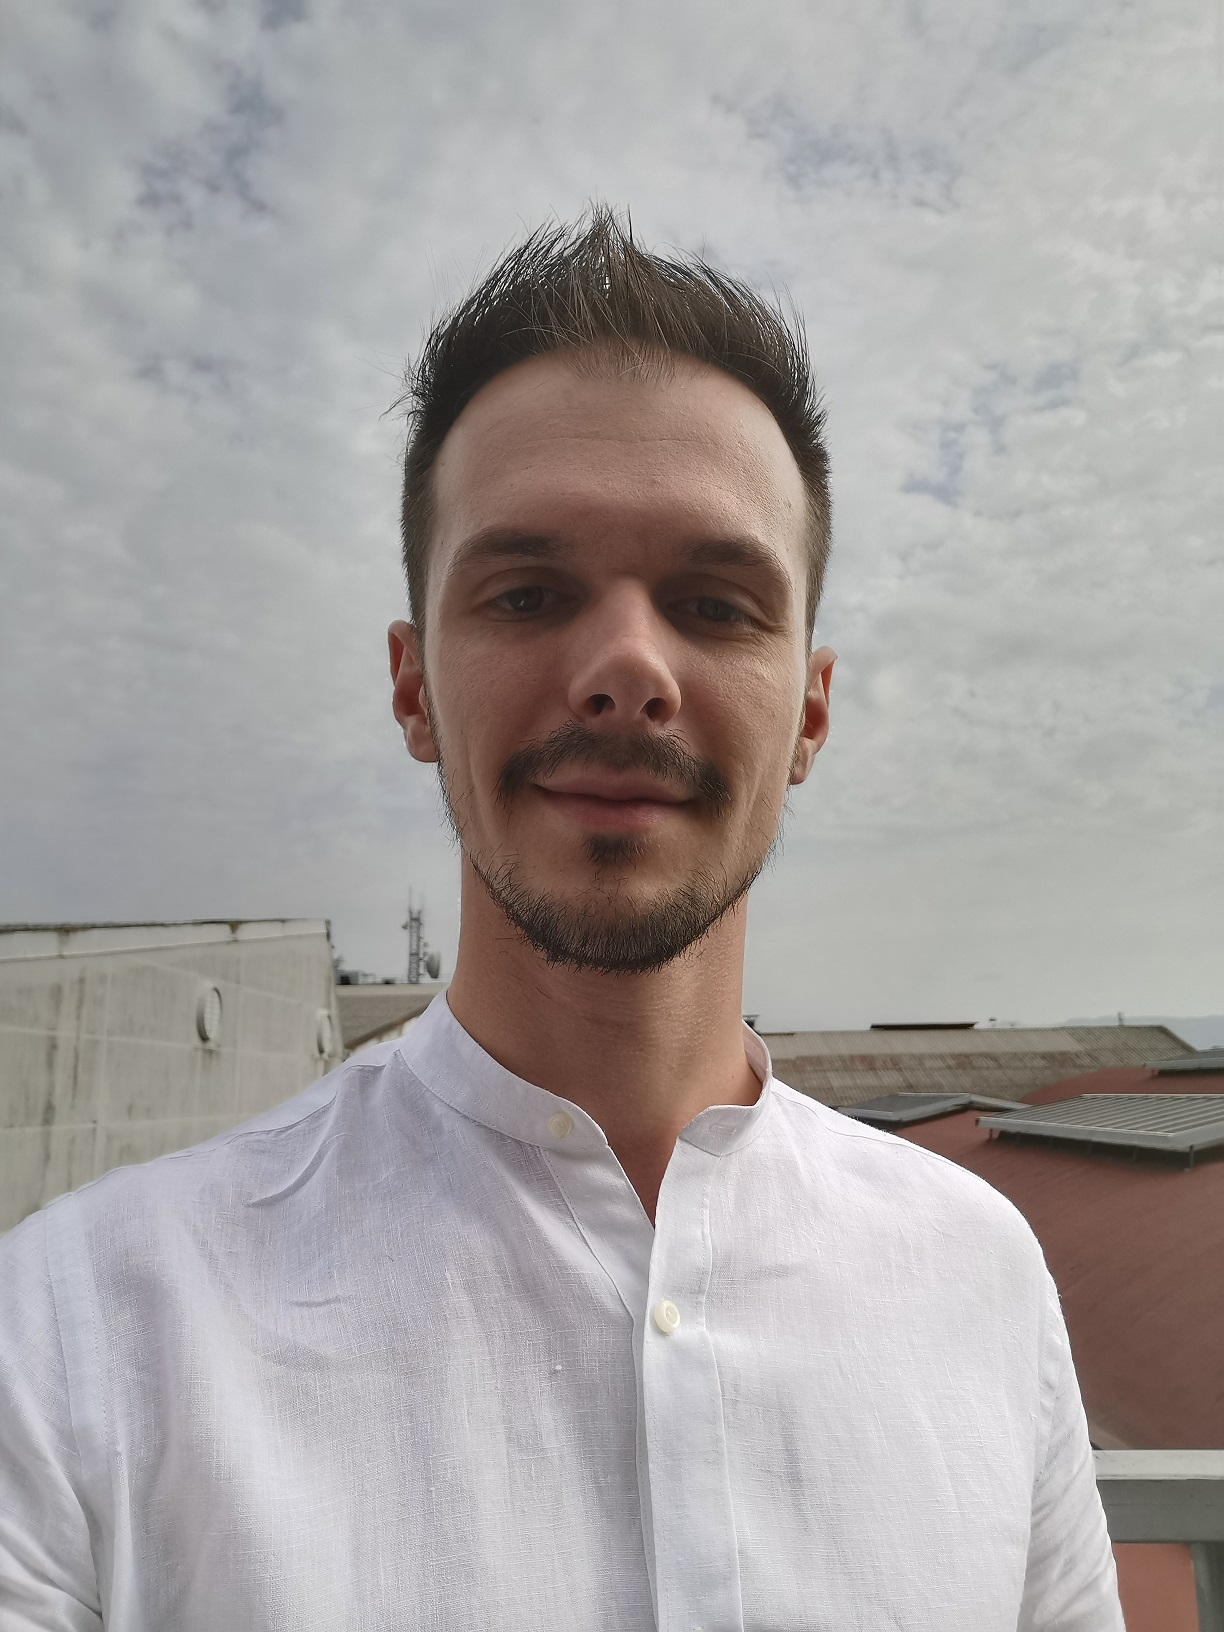
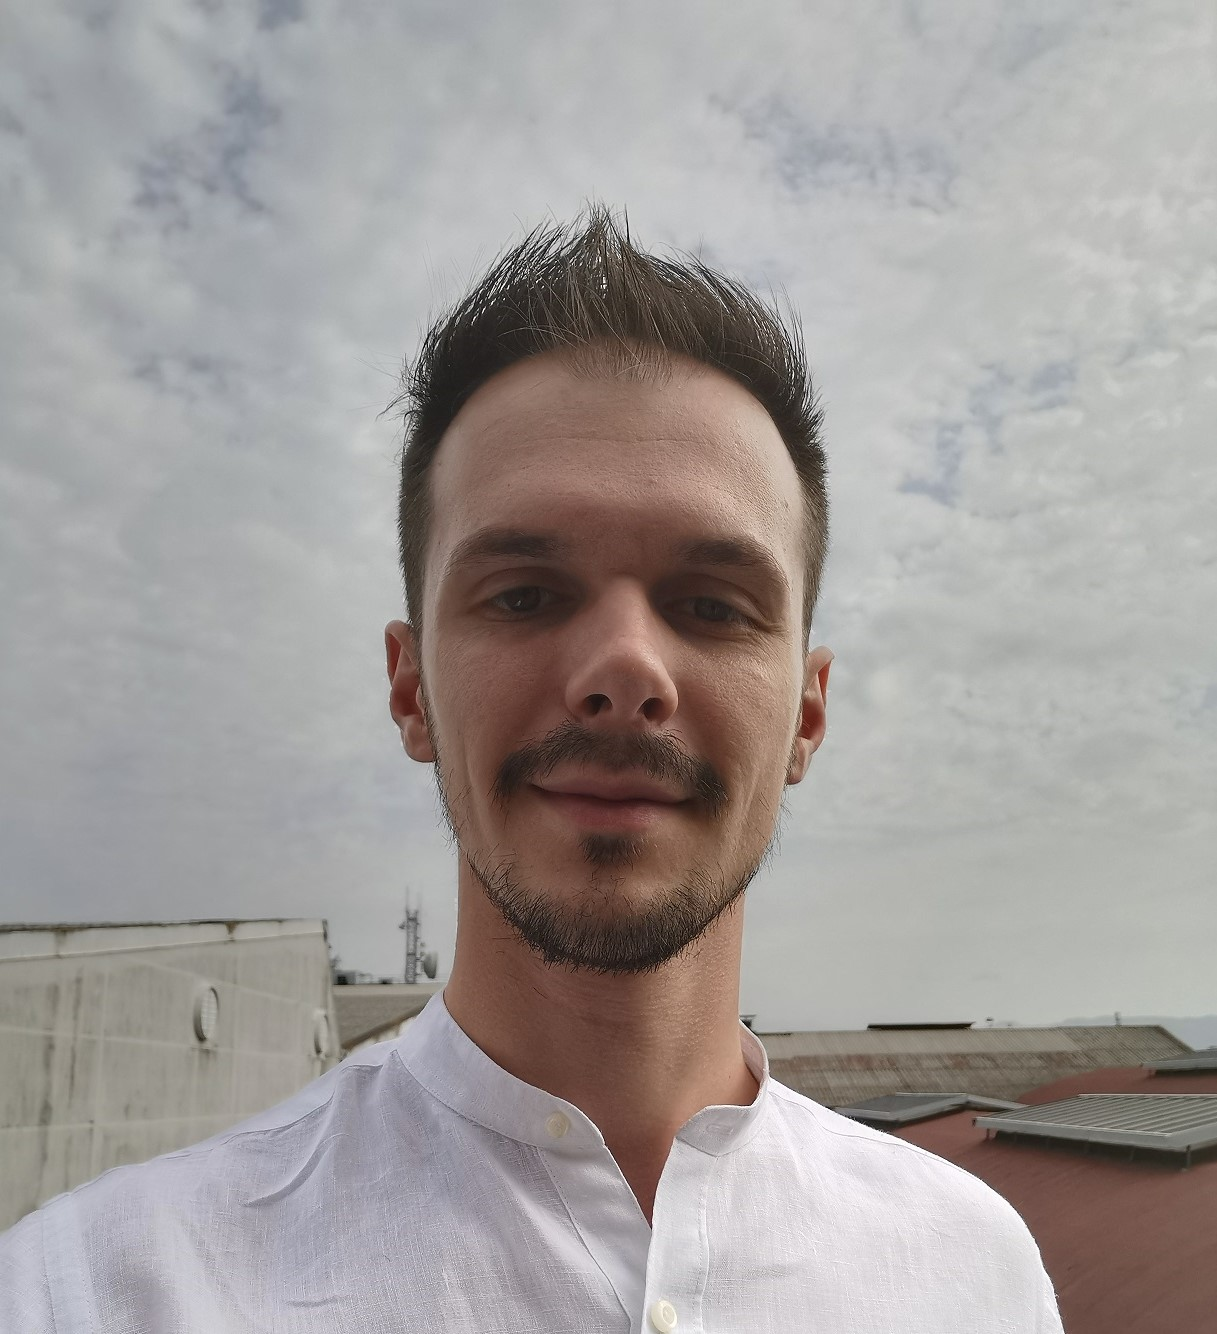
Added photo to site

diff --git a/_layouts/default.html b/_layouts/default.html
@@ -25,17 +25,17 @@
         <h1><a href="{{ "/" | absolute_url }}">{{ site.title }}</a></h1>
         
         {% if site.logo %}
-          <img src="{{site.logo | relative_url}}" alt="Logo" />
+			<img src="{{site.logo | relative_url}}" alt="Logo" id="contactPhoto"/>
         {% endif %}
 
-        <ul class="contactList">
+        <ul class="headerList">
 			<li><i class="fas fa-envelope"></i><a href="mailto:{{ site.mail-work }}">E-mail</a></li>
 			<li><i class="fab fa-linkedin"/></i><a href="{{ site.linkedin }}">Linkedin</a></li>
 			<li><i class="fab fa-researchgate"></i><a href="{{ site.research-gate }}">Research Gate</a></li>
 			<li><i class="fab fa-google"></i><a href="{{ site.scholar }}">Google Scholar</a></li>
 		</ul>
 		
-		<ul class="contactList">
+		<ul class="headerList">
 			<li><a href="#cv">Short CV</a></li>
 			<li><a href="#publications">Pubblications</a></li>
 			<li><a href="#talks">Talks</a></li>

diff --git a/custom-assets/custom.css b/custom-assets/custom.css
@@ -1,4 +1,4 @@
-.contactList {
+.headerList {
 	list-style: none;
 	height: auto;
 	background: inherit;
@@ -6,18 +6,18 @@
 	width: auto;
 }
 
-.contactList li {
+.headerList li {
 	float: none;
 	width: auto;
 	border-right: none;
 	height: auto;
 }
 
-.contactList li a {
+.headerList li a {
 	display: inline;
 }
 
-.contactList li i {
+.headerList li i {
 	margin-right: 10px;
 	width: 14px;
 }
@@ -46,4 +46,9 @@
 
 html {
   scroll-behavior: smooth;
+}
+
+#contactPhoto {
+	height: 250px;
+	margin-bottom: 20px;
 }
